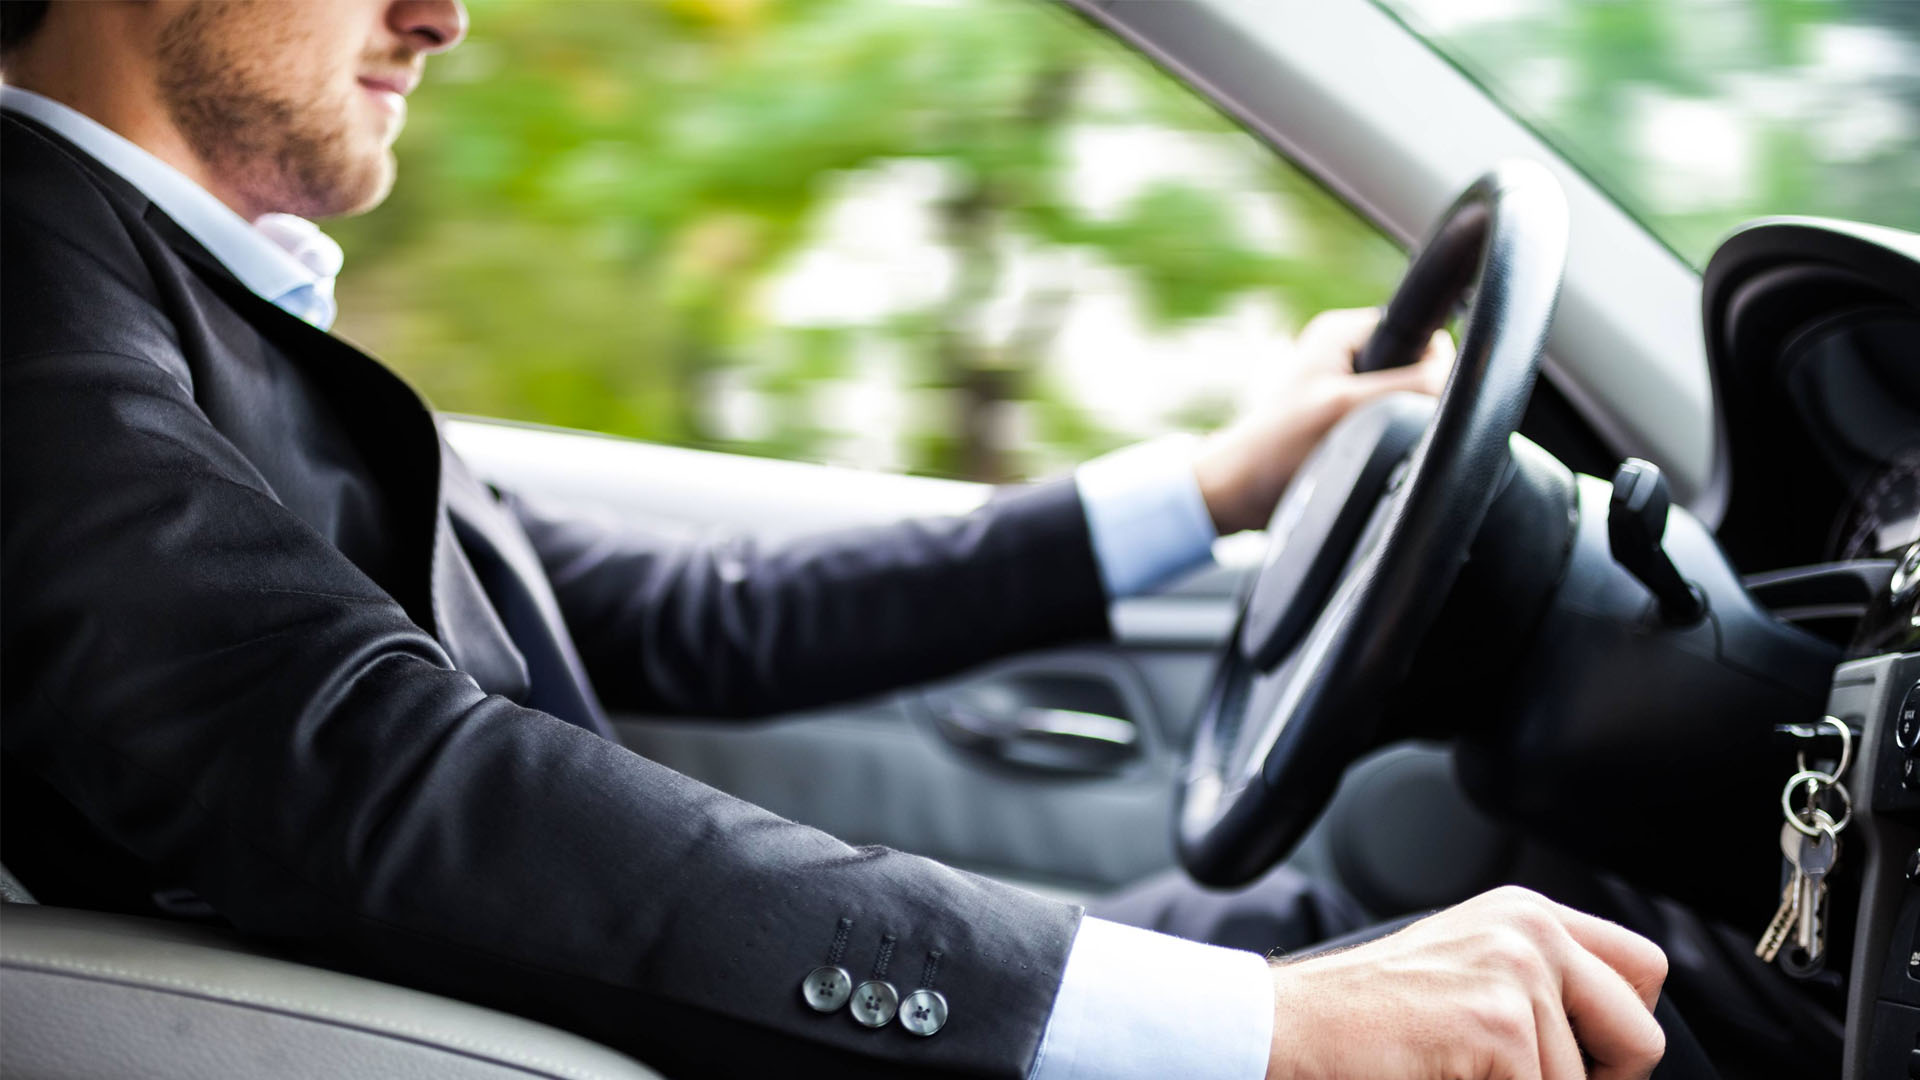
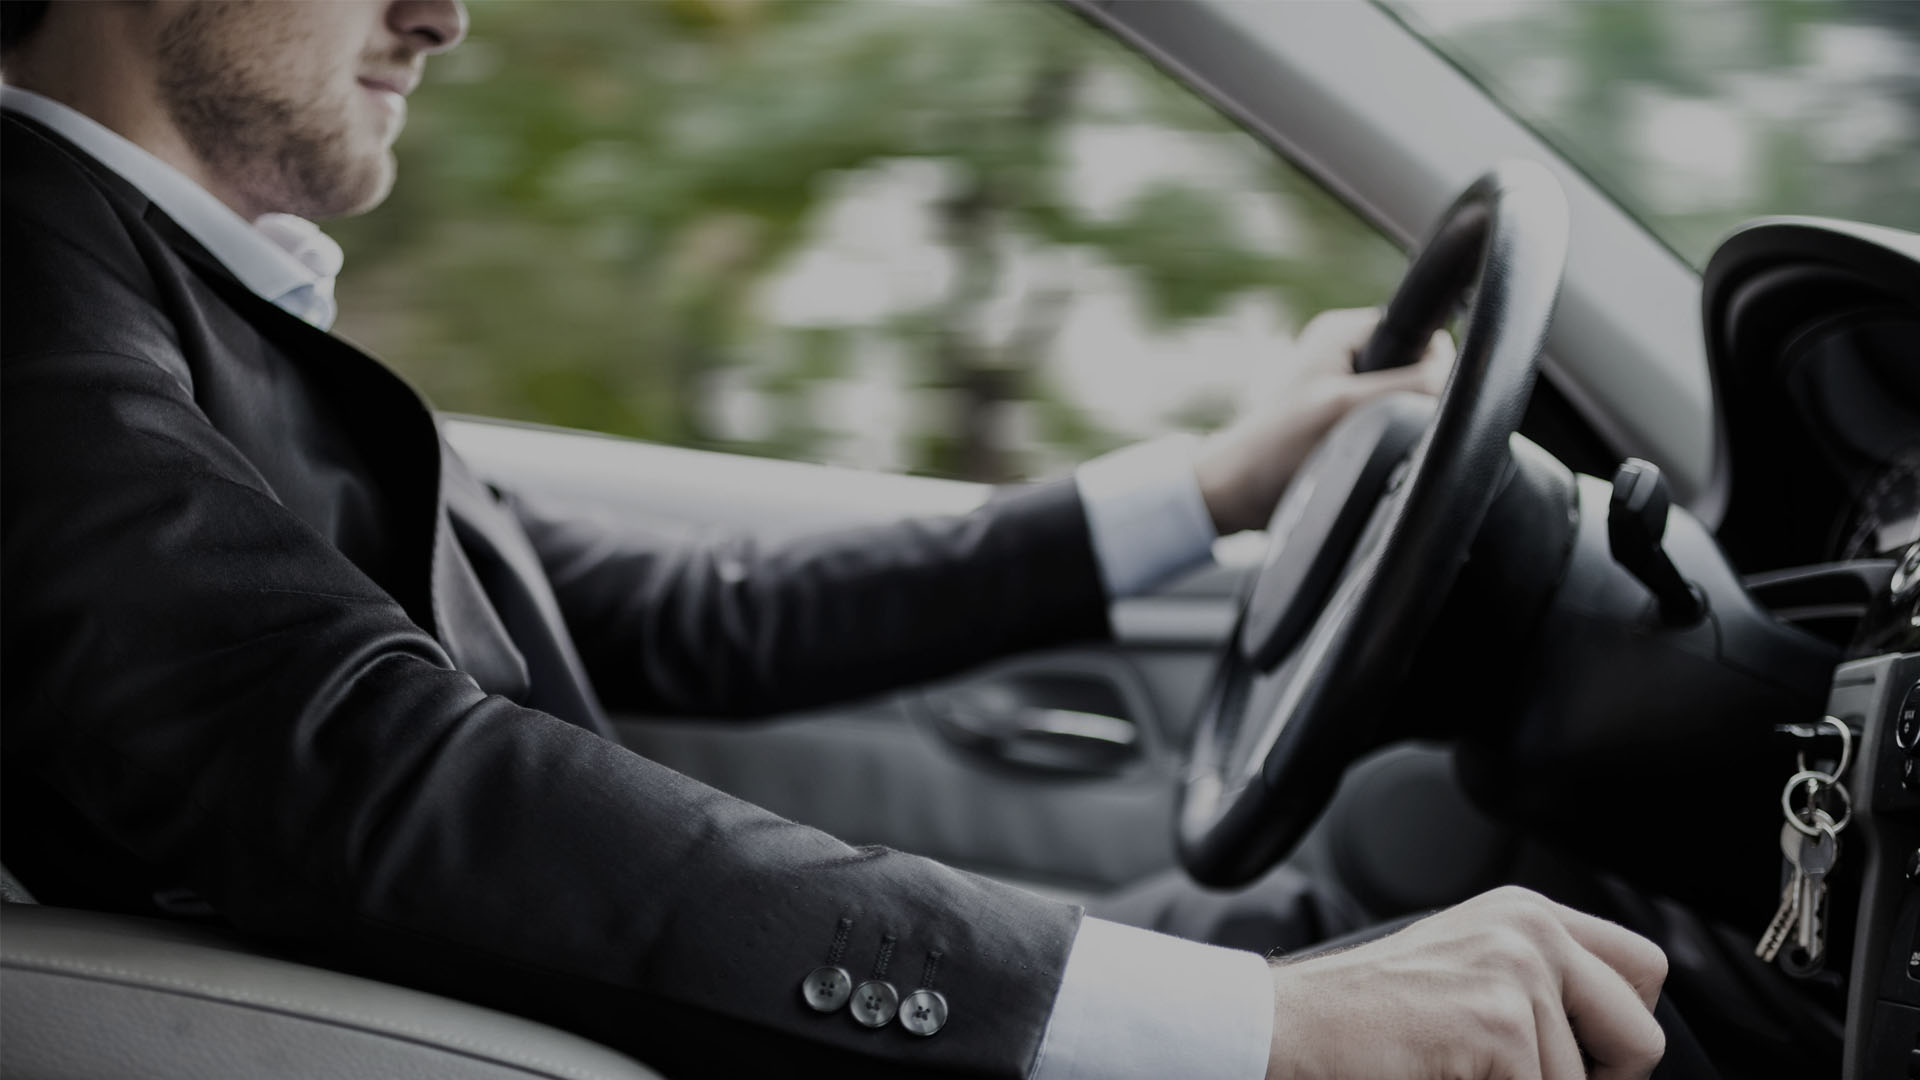
some more styling.

diff --git a/app/assets/stylesheets/application.css.scss b/app/assets/stylesheets/application.css.scss
@@ -1,16 +1,17 @@
-$orange-dark1: #FF7A3D;
-$orange-dark2: #FF7028;
-$orange-light: #E5B66A;
-$blue-light1: #00B0BF;
-$blue-light2: #0099a6;
-$blue-dark: #00467F;
+$orange-light1: #FFC553;
+$orange-light2: #FFB247;
+$orange-dark: #E5B66A;
+$blue-light-text: #6fffd5;
+$blue-light1: #5EEFC1;
+$blue-light2: #5ED4C1;
+$blue-dark: #00AAB0;
 $blue-darker: #040040;
 $grey-light: #eee;
 $grey-dark: #1f1f1f;
 
 
 
-$bg-color: #fff;
+$bg-color: #111;
 $navbar-color: #00BAFF;
 $button-active: #911;
 $button-inactive: #EFEFEF;
@@ -22,25 +23,56 @@ body {
   background-color: $bg-color;
 }
 
+//flash message
+.alert {
+    background-color: rgba(229, 182, 106, 0.2);
+    color: $orange-dark;
+    text-align: center; 
+    max-width: 600px;
+    margin: 0 auto;
+}
+.notice {
+    background-color: #eee;
+    color: #aaa;
+    text-align: center; 
+    max-width: 600px;
+    margin: 0 auto;
+}
+
+.orbit-nav {
+  padding: 5px;
+  border: none;
+  border-radius: 0;
+  li {
+    margin-top: 15px;
+    font-size: 1.2em;
+  }
+}
+
 .landing-page-bg {
   background: url('bg.jpg') no-repeat center center fixed;
   height: 1020px;
+  margin-top: -20px;
 }
 .other-page-bg {
   background: url('bg2.jpg') no-repeat center center fixed;
   height: 1020px;
+  margin-top: -10px;
 }
 
 .welcome-panel {
-  background-color: rgba(255, 255, 255, 0.6);
   border: none;
   padding: 20px;
-  margin-top: 100px;
+  margin-top: 20%;
   text-align: center;
       h1 {
-      color: $blue-light1;
-      font-size: 5em;
+      color: $blue-light-text;
+      font-size: 9em;
     }
+      h2 {
+        color: white;
+        font-size: 2.5em;
+      }
 }
 
 .panel {
@@ -48,7 +80,12 @@ body {
 }
 
 .btn-consistent {
-  width: 100px;
+  width: 200px;
+}
+
+.btn-primary {
+  background-color: $blue-dark;
+  border: none;
 }
 
 // 3mily's face
@@ -68,6 +105,9 @@ body {
 .container.new-center {
   margin: 0 auto;
   max-width: 600px;
+  h1 {
+    color: #222;
+  }
 }
 .container.list-center {
   margin: 0 auto;
@@ -91,27 +131,27 @@ body {
 //commute list container for passengers
 .panel-warning {
   border-color: #fff;
-  box-shadow: 4px 4px 10px #aaa;
+  box-shadow: 4px 4px 10px rgba(0,0,0,0.5);
 }
 .panel-warning>.panel-heading {
   padding-left: 20px;
   color: #fff;
-  background-color: $orange-dark2; //fallback color
-  background-image: -moz-linear-gradient(top, $orange-dark1, $orange-dark2);
-  background-image: -ms-linear-gradient(top, $orange-dark1, $orange-dark2);
-  background-image: -webkit-gradient(linear, 0 0, 0 100%, from($orange-dark1), to($orange-dark2));
-  background-image: -webkit-linear-gradient(top, $orange-dark1, $orange-dark2);
-  background-image: -o-linear-gradient(top, $orange-dark1, $orange-dark2);
-  background-image: linear-gradient(top, $orange-dark1, $orange-dark2);
+  background-color: $orange-light2; //fallback color
+  background-image: -moz-linear-gradient(top, $orange-light1, $orange-light2);
+  background-image: -ms-linear-gradient(top, $orange-light1, $orange-light2);
+  background-image: -webkit-gradient(linear, 0 0, 0 100%, from($orange-light1), to($orange-light2));
+  background-image: -webkit-linear-gradient(top, $orange-light1, $orange-light2);
+  background-image: -o-linear-gradient(top, $orange-light1, $orange-light2);
+  background-image: linear-gradient(top, $orange-light1, $orange-light2);
   background-repeat: repeat-x;
-  border-color: $orange-dark1;
+  border-color: $orange-light1;
 }
 
 
 //commute list container for drivers
 .panel-primary {
   border-color: #fff;
-  box-shadow: 4px 4px 10px #aaa;
+  box-shadow: 4px 4px 10px rgba(0,0,0,0.5);
 }
 .panel-primary>.panel-heading {
   padding-left: 20px;
@@ -131,8 +171,8 @@ body {
 .panel-default>.panel-heading {
   padding-left: 20px;
   color: #222;
-  background-color: $orange-light;
-  border-color: $orange-light;
+  background-color: $orange-dark;
+  border-color: $orange-dark;
 }
 
 

diff --git a/app/controllers/sessions_controller.rb b/app/controllers/sessions_controller.rb
@@ -8,9 +8,10 @@ class SessionsController < ApplicationController
 
     if user && user.authenticate(params[:password])
       session[:user_id] = user.id
+      flash.now[:alert] = "Hello, " + user.firstname + "!"
       redirect_to root_path
     else
-      flash.now[:alert] = "Log in failed :("
+      flash.now[:notice] = "Log in failed :("
       render :new
     end
     # user = User.first
@@ -22,6 +23,6 @@ class SessionsController < ApplicationController
   def destroy
     session[:user_id] = nil
     # render nothing: true, status: 204
-    redirect_to root_path, notice: "Tsuus!"
+    redirect_to root_path, alert: "Bye for now!"
   end
 end
